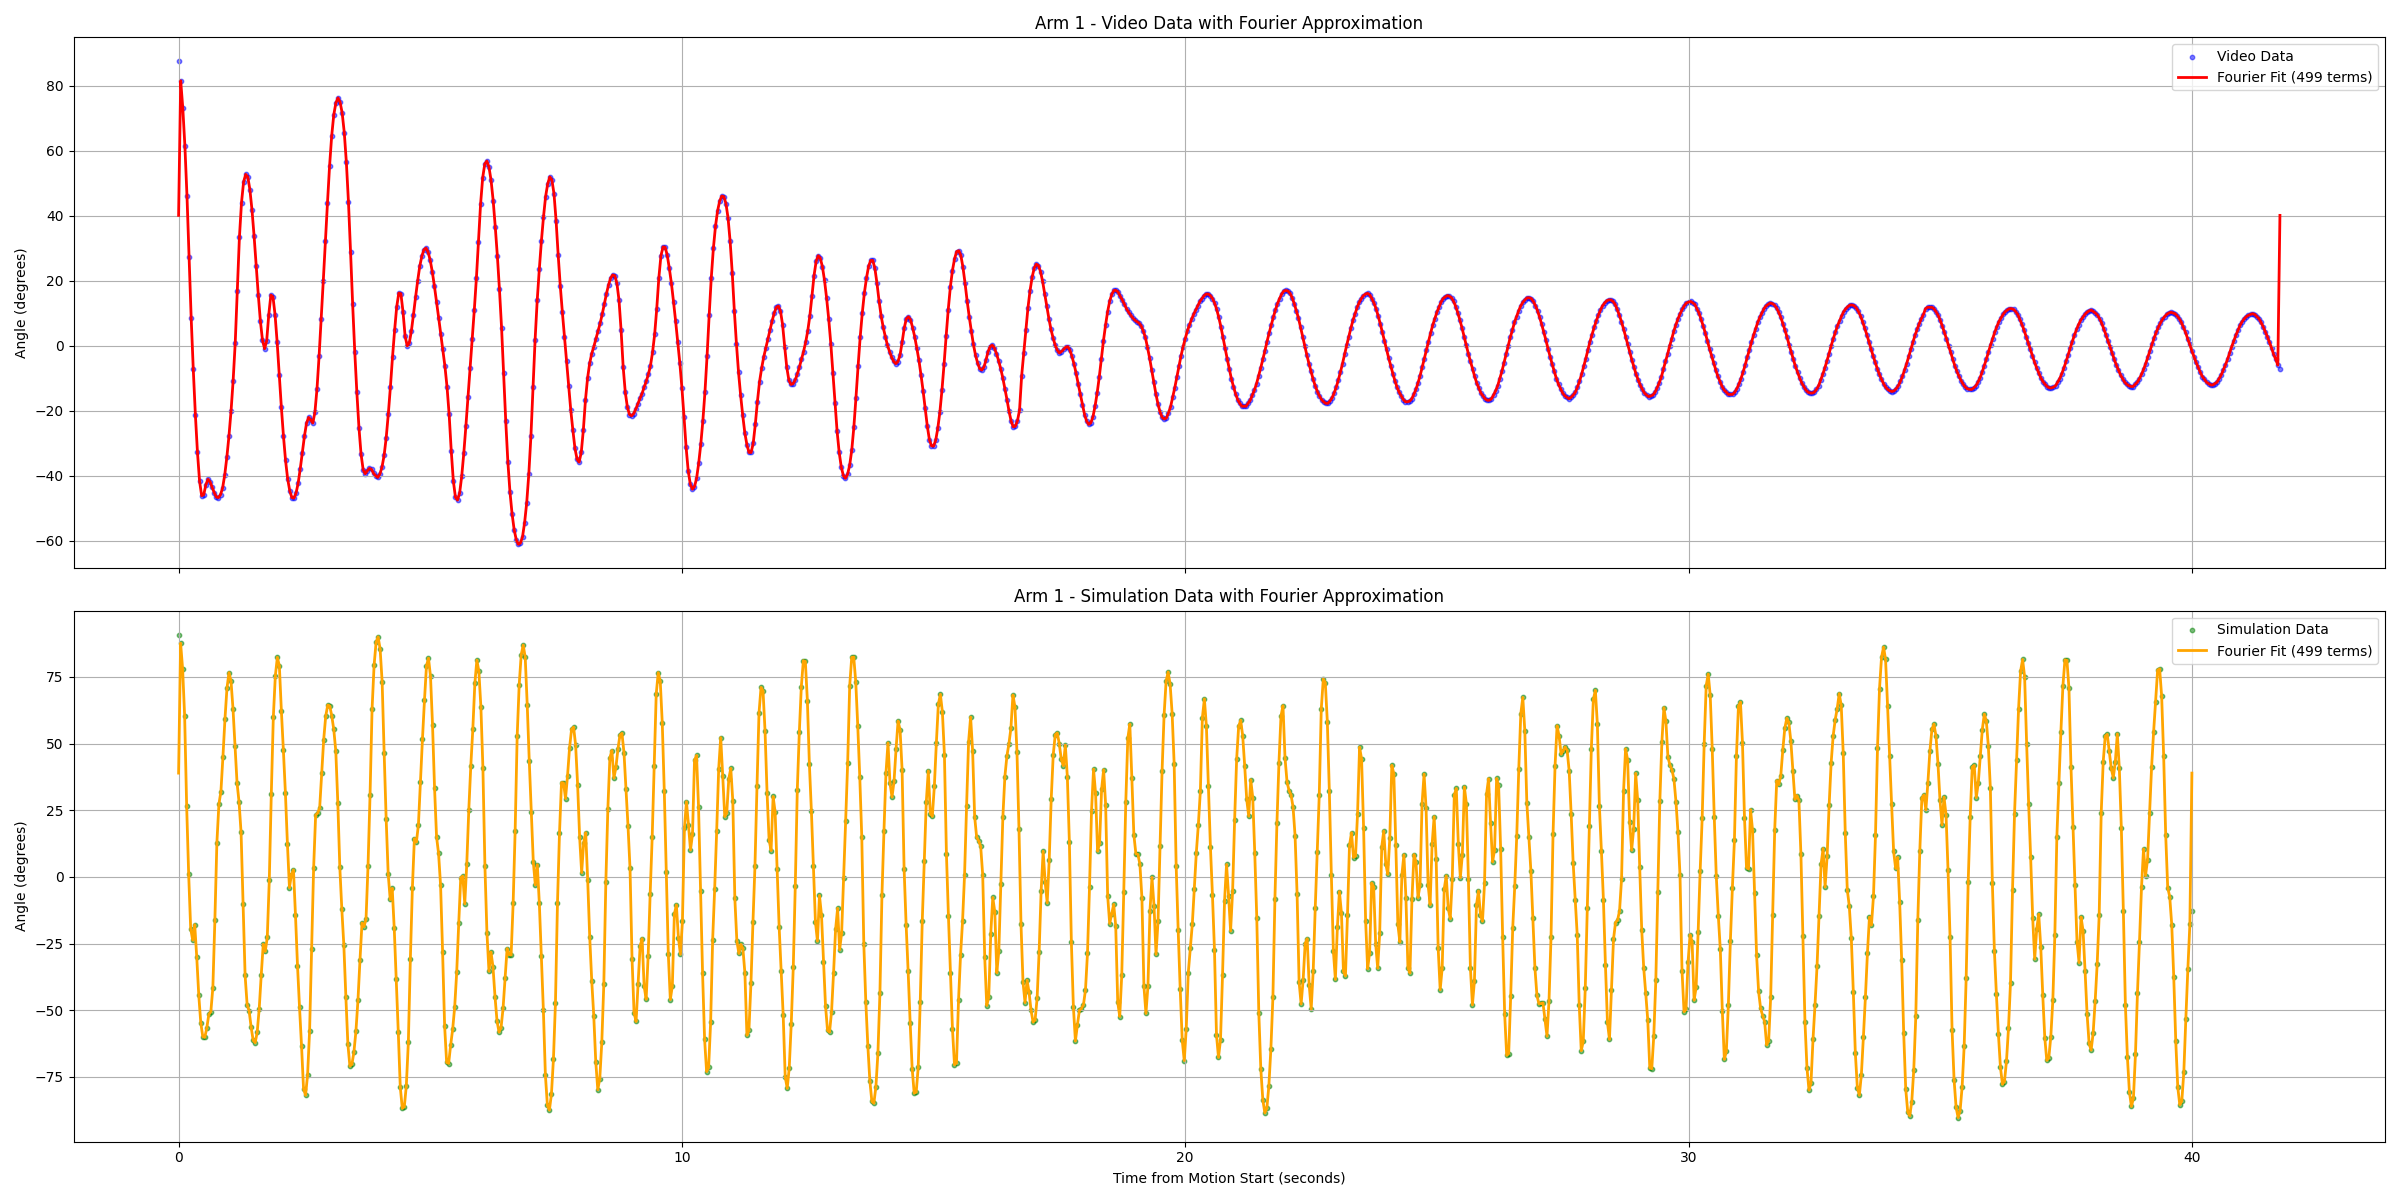
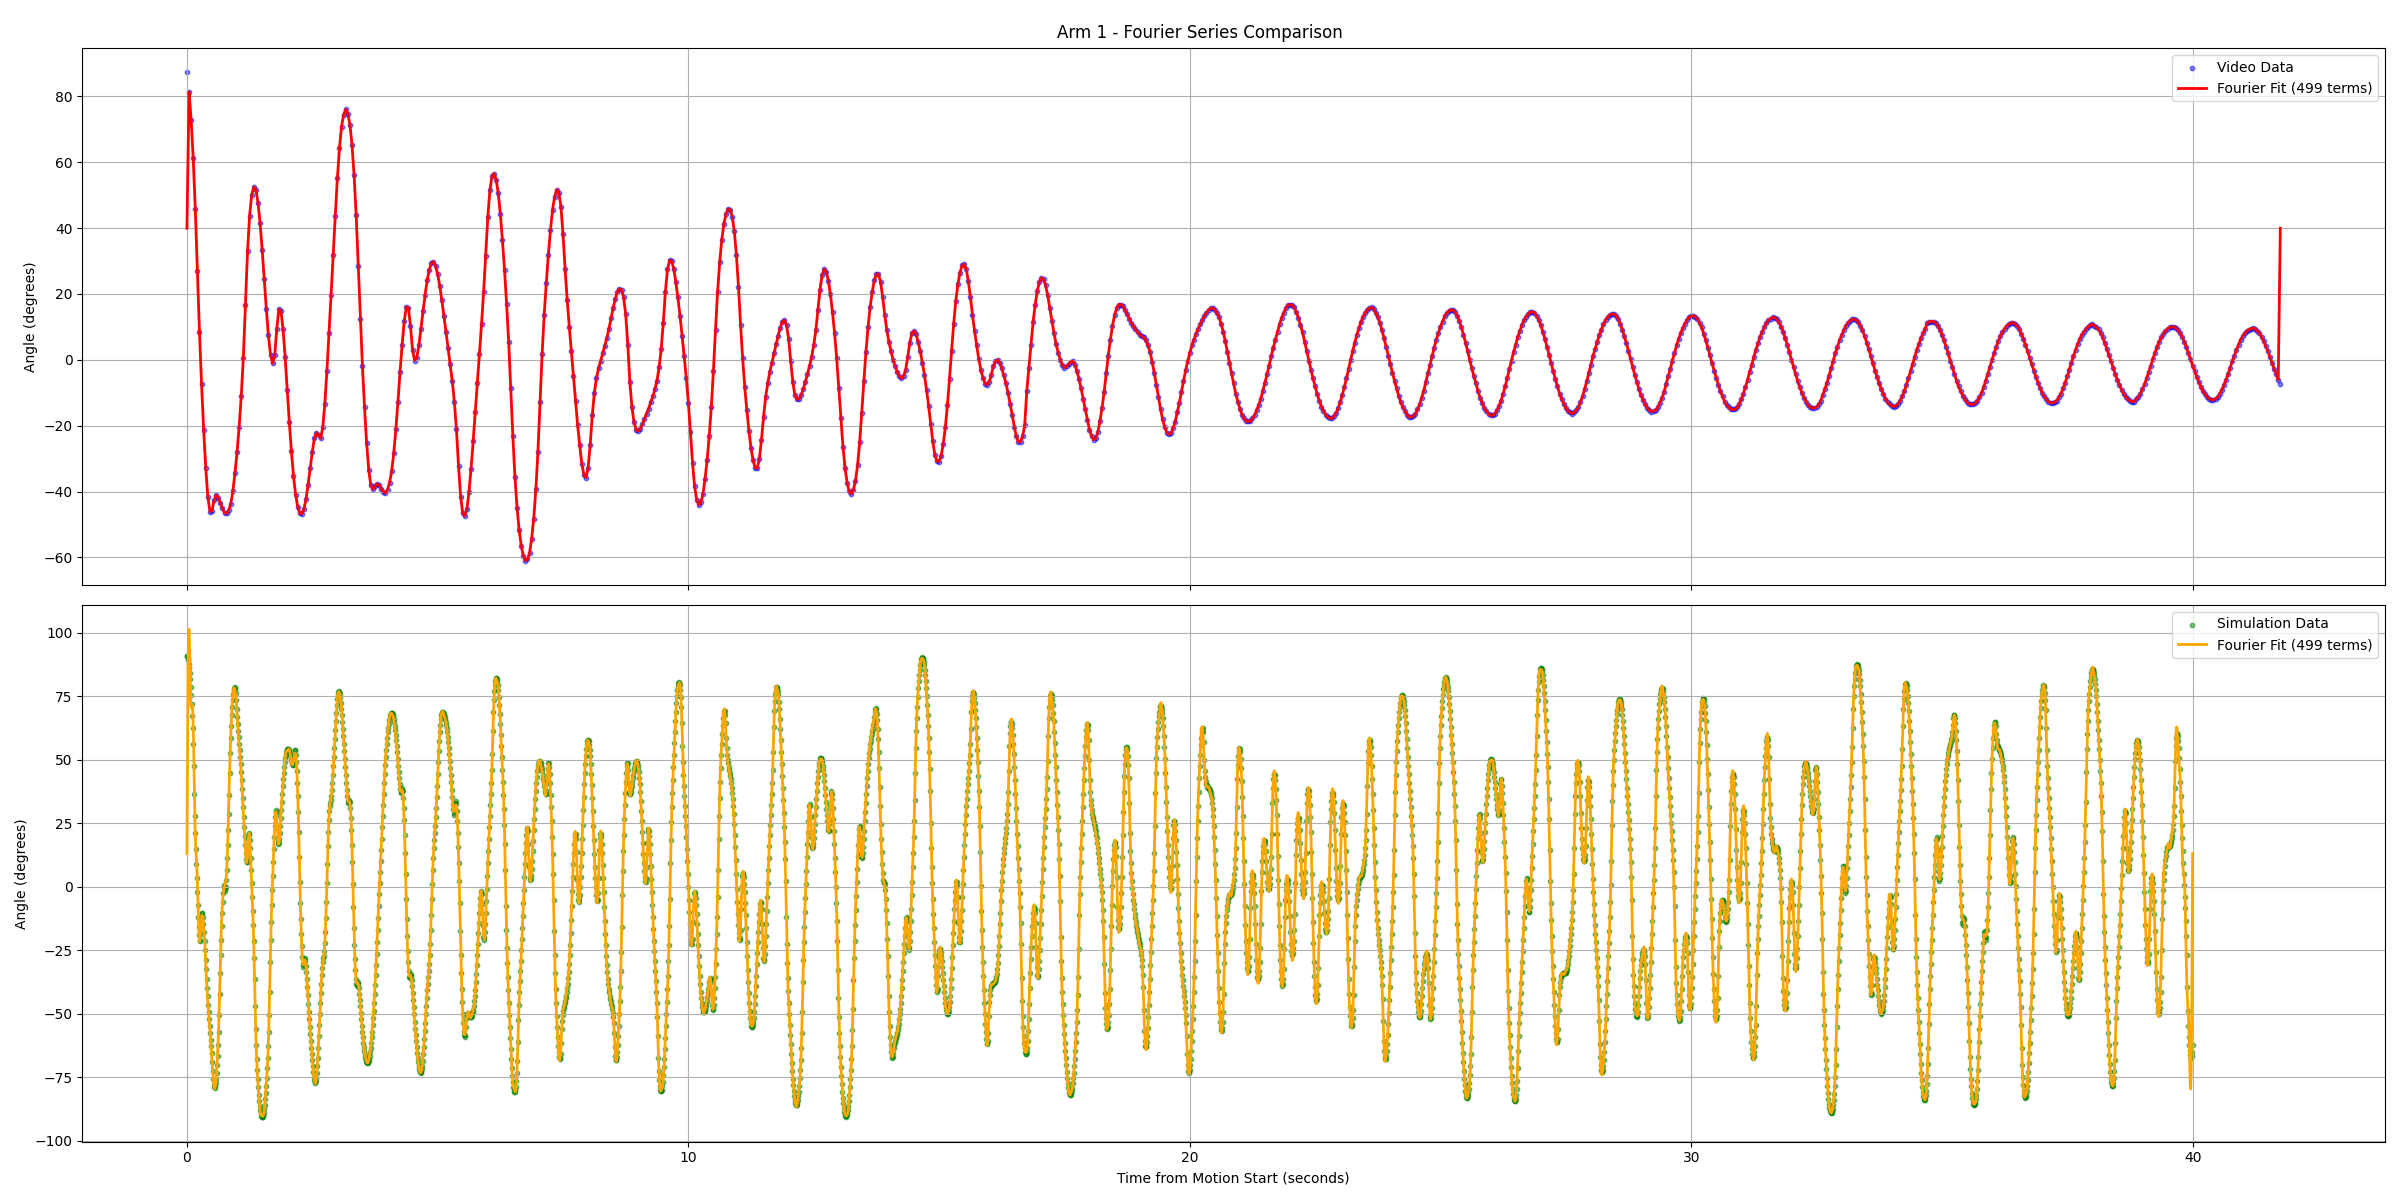
Happy

diff --git a/Verification/verificiation.py b/Verification/verificiation.py
@@ -2,13 +2,14 @@ import matplotlib.pyplot as plt
 import numpy as np
 import math
 import json
-from typing import Tuple, List, NamedTuple
+from pathlib import Path
+from typing import Tuple, List, NamedTuple, Dict, Any
 from scipy.optimize import curve_fit
 
 CONFIG = {
     "title": "Verification of the Simulation with Respect to Real Life",
     "path_to_data": "C:\\Users\\adamf\\Downloads\\",
-    "sim_data_name": "simulation_4fa2850890bf9769841974f080a31e603689af602b49631c0da0913405acc2b2.txt",
+    "sim_data_name": "simulation_45df02e102a7b311c45a387d97d3856f720a1adcfb1d30d1a41ff66d88e170a0.txt",
     "vid_data_name": "DSC_0058.txt",
     "ver_outpath": "./Verification/ver_outfiles/"
 }
@@ -22,15 +23,18 @@ Point = Tuple[int, int]
 LEDData = List[Tuple[float, float, Point]]
 CartesianCoords = Tuple[float, float, float, float]
 
-def get_vid_data_path() -> str:
-    return f"{CONFIG['path_to_data']}{CONFIG['vid_data_name']}"
+def get_vid_data_path() -> Path:
+    """Return the full path to the video data file."""
+    return Path(CONFIG['path_to_data']) / CONFIG['vid_data_name']
 
-def get_data_sim_path() -> str:
-    return f"{CONFIG['path_to_data']}{CONFIG['sim_data_name']}"
+def get_data_sim_path() -> Path:
+    """Return the full path to the simulation data file."""
+    return Path(CONFIG['path_to_data']) / CONFIG['sim_data_name']
 
 def load_saved_vid_data() -> Tuple[Point, LEDData, LEDData]:
+    """Load and parse video data from the configured file."""
+    pivot, first_led, second_led = None, [], []
     with open(get_vid_data_path(), "r") as f:
-        pivot, first_led, second_led = None, [], []
         for line in f:
             key, value = line.split(":", 1)
             if key == "Pivot":
@@ -39,231 +43,172 @@ def load_saved_vid_data() -> Tuple[Point, LEDData, LEDData]:
                 first_led = json.loads(value)
             elif key == "secondLED":
                 second_led = json.loads(value)
-        return pivot, first_led, second_led
+    return pivot, first_led, second_led
 
-def load_saved_data() -> dict:
+def load_saved_data() -> Dict[str, Any]:
+    """Load simulation data from the configured JSON file."""
     with open(get_data_sim_path(), "r") as f:
         data = json.load(f)
-        return {
-            "y": np.array(data["y"]),
-            "t": np.array(data["t"]),
-            "lengths": np.array(data["lengths"])
-        }
-    
-def get_cartesian_coords(theta1: float, theta2: float, lengths: Tuple) -> CartesianCoords:
-    x1 = lengths[0] * np.sin(theta1)
-    y1 = -lengths[0] * np.cos(theta1)
-    x2 = x1 + lengths[1] * np.sin(theta2)
-    y2 = y1 - lengths[1] * np.cos(theta2)
+    return {
+        "y": np.array(data["y"]),
+        "t": np.array(data["t"]),
+        "lengths": np.array(data["lengths"])
+    }
+
+def get_cartesian_coords(theta1: np.ndarray, theta2: np.ndarray, lengths: Tuple[float, float]) -> CartesianCoords:
+    """Calculate Cartesian coordinates for both pendulum masses using vectorized operations."""
+    l1, l2 = lengths
+    x1 = l1 * np.sin(theta1)
+    y1 = -l1 * np.cos(theta1)
+    x2 = x1 + l2 * np.sin(theta2)
+    y2 = y1 - l2 * np.cos(theta2)
     return x1, y1, x2, y2
 
-def process_pendulum_data(solution: dict) -> Tuple[List[PendulumData], List[PendulumData]]:
+def process_pendulum_data(solution: Dict[str, Any]) -> Tuple[List[PendulumData], List[PendulumData]]:
+    """Process simulation data to generate pendulum trajectories using vectorized operations."""
     theta1 = solution["y"][0]
     theta2 = solution["y"][1]
     times = solution["t"]
+    lengths = (solution["lengths"][0], solution["lengths"][1])
+
+    x1, y1, x2, y2 = get_cartesian_coords(theta1, theta2, lengths)
     
-    arm1_data = []
-    arm2_data = []
+    # Calculate angles using vectorized operations
+    angle1 = np.arctan2(x1, -y1)
+    dx = x2 - x1
+    dy = y2 - y1
+    angle2 = np.arctan2(dx, -dy)
     
-    # Iterate through each time step's angles
-    for t, th1, th2 in zip(times, theta1, theta2):
-        # Get coordinates for both masses
-        x1, y1, x2, y2 = get_cartesian_coords(th1, th2, (solution["lengths"][0],solution["lengths"][1]))
-        
-        # Arm 1: Angle is relative to the origin (0,0)
-        angle1 = math.atan2(x1, -y1)
-        arm1_data.append(PendulumData(t, angle1, (x1, y1)))
-        
-        # Arm 2: Angle is relative to the end of Arm 1 (x1, y1)
-        dx = x2 - x1  # Horizontal displacement from Arm 1's end
-        dy = y2 - y1  # Vertical displacement from Arm 1's end
-        angle2 = math.atan2(dx, -dy)  # Negative because positive y is downward
-        arm2_data.append(PendulumData(t, angle2, (x2, y2)))
-    
+    # Create pendulum data lists
+    arm1_data = [
+        PendulumData(t, a1, (x, y))
+        for t, a1, x, y in zip(times, angle1, x1, y1)
+    ]
+    arm2_data = [
+        PendulumData(t, a2, (x, y))
+        for t, a2, x, y in zip(times, angle2, x2, y2)
+    ]
     return arm1_data, arm2_data
 
-def plot_deviation(
-    arm1: List[PendulumData], 
-    arm2: List[PendulumData], 
-    data1: LEDData, 
-    data2: LEDData
-) -> None:
-    def process_arm(vid_data: LEDData, sim_data: List[PendulumData]):
-        # Extract video data
-        vid_t = np.array([d[0] for d in vid_data])
-        vid_angles = np.array([math.degrees(d[1]) for d in vid_data])
-        
-        # Detect motion start in video data
-        def find_motion_start(angles: np.ndarray, window_size=5, threshold=1.0):
-            diffs = np.abs(np.diff(angles))
-            moving_avg = np.convolve(diffs, np.ones(window_size)/window_size, mode='valid')
-            start_idx = np.argmax(moving_avg > threshold) + window_size
-            return max(start_idx, 0)
-        
-        start_idx = find_motion_start(vid_angles)
-        vid_t_trimmed = vid_t[start_idx:] - vid_t[start_idx]  # Start time at 0
-        vid_angles_trimmed = vid_angles[start_idx:]
+def find_motion_start(angles: np.ndarray, window_size: int = 5, threshold: float = 1.0) -> int:
+    """Detect the start of motion using moving average of angular differences."""
+    if len(angles) < 2:
+        return 0
+    diffs = np.abs(np.diff(angles))
+    if len(diffs) < window_size:
+        return 0
+    moving_avg = np.convolve(diffs, np.ones(window_size)/window_size, mode='valid')
+    above_threshold = moving_avg > threshold
+    if not np.any(above_threshold):
+        return 0
+    start_idx = np.argmax(above_threshold) + window_size
+    return min(start_idx, len(angles) - 1)
 
-        # Align simulation data
-        sim_t = np.array([d.time for d in sim_data])
-        sim_angles = np.array([math.degrees(d.angle) for d in sim_data])
-        sim_mask = sim_t >= vid_t[start_idx]
-        sim_t_aligned = sim_t[sim_mask] - sim_t[sim_mask][0]
-        sim_angles_aligned = sim_angles[sim_mask]
+def process_arm(vid_data: LEDData, sim_data: List[PendulumData]) -> Tuple[np.ndarray, np.ndarray, np.ndarray, np.ndarray]:
+    """Process and align video/simulation data for a single pendulum arm."""
+    vid_t = np.array([d[0] for d in vid_data])
+    angles_rad = np.array([d[1] for d in vid_data])
+    vid_angles = np.degrees(angles_rad)
+    
+    start_idx = find_motion_start(vid_angles)
+    vid_t_trimmed = vid_t[start_idx:] - vid_t[start_idx]
+    vid_angles_trimmed = vid_angles[start_idx:]
+    max_time = vid_t_trimmed[-1] if len(vid_t_trimmed) > 0 else 0.0
 
-        return (vid_t_trimmed, vid_angles_trimmed, 
-                sim_t_aligned, sim_angles_aligned)
+    sim_t = np.array([d.time for d in sim_data])
+    sim_angles_rad = np.array([d.angle for d in sim_data])
+    sim_angles = np.degrees(sim_angles_rad)
+    sim_mask = sim_t <= max_time
+    return (vid_t_trimmed, vid_angles_trimmed, sim_t[sim_mask], sim_angles[sim_mask])
 
-    # Process both arms
-    (vid_t1, vid_ang1, sim_t1, sim_ang1) = process_arm(data1, arm1)
-    (vid_t2, vid_ang2, sim_t2, sim_ang2) = process_arm(data2, arm2)
+def plot_deviation(arm1: List[PendulumData], arm2: List[PendulumData], 
+                  data1: LEDData, data2: LEDData) -> None:
+    """Plot angle deviation between video and simulation data using Fourier approximations."""
+    vid_t1, vid_ang1, sim_t1, sim_ang1 = process_arm(data1, arm1)
+    vid_t2, vid_ang2, sim_t2, sim_ang2 = process_arm(data2, arm2)
 
-    # Fit Fourier series to all datasets
-    def fit_and_extend(t: np.ndarray, y: np.ndarray, evaluation_t: np.ndarray):
+    def fit_and_extend(t: np.ndarray, y: np.ndarray, evaluation_t: np.ndarray) -> np.ndarray:
         if len(t) < 2:
             return np.zeros_like(evaluation_t)
-
-        # Get coefficients and period from original data
-        coeffs, fitted_curve = fit_fourier(t, y)
-        T = t[-1] if len(t) > 0 else 1.0  # Handle empty array case
-
-        # Use the original period when evaluating
+        coeffs, _ = fit_fourier(t, y)
+        T = t[-1] if len(t) > 0 else 1.0
         return fourier_series(evaluation_t, T, *coeffs)
 
-    # Create common time axis
-    max_time = min(vid_t1[-1], vid_t2[-1], sim_t1[-1], sim_t2[-1])
-    common_t = np.linspace(0, max_time, 1000)
+    max_time = min(np.max(vid_t1) if len(vid_t1) else 0, np.max(vid_t2) if len(vid_t2) else 0,
+                   np.max(sim_t1) if len(sim_t1) else 0, np.max(sim_t2) if len(sim_t2) else 0)
+    common_t = np.linspace(0, max_time, 1000) if max_time > 0 else np.array([])
 
-    # Get Fourier approximations
     vid_fit1 = fit_and_extend(vid_t1, vid_ang1, common_t)
     sim_fit1 = fit_and_extend(sim_t1, sim_ang1, common_t)
     vid_fit2 = fit_and_extend(vid_t2, vid_ang2, common_t)
     sim_fit2 = fit_and_extend(sim_t2, sim_ang2, common_t)
 
-    # Calculate deviations
-    diff1 = vid_fit1 - sim_fit1
-    diff2 = vid_fit2 - sim_fit2
-
-    # Create plot
     plt.figure(figsize=(24, 6))
-    plt.plot(common_t, diff1, label="Arm 1 Deviation", color='b', alpha=0.7)
-    plt.plot(common_t, diff2, label="Arm 2 Deviation", color='r', alpha=0.7)
-    
+    plt.plot(common_t, vid_fit1 - sim_fit1, label="Arm 1 Deviation", color='b', alpha=0.7)
+    plt.plot(common_t, vid_fit2 - sim_fit2, label="Arm 2 Deviation", color='r', alpha=0.7)
     plt.xlabel("Time from Motion Start (seconds)")
     plt.ylabel("Angle Difference (degrees)")
     plt.title(f"{CONFIG['title']} - Fourier-based Deviation")
     plt.legend()
     plt.grid(True)
-    
     plt.savefig(f"{CONFIG['ver_outpath']}Fourier_Deviation_{CONFIG['title']}.png")
     plt.show()
 
 def fourier_series(t: np.ndarray, T: float, *coefficients) -> np.ndarray:
-    """
-    Create a Fourier series approximation with period T and coefficients.
-    Format: coefficients = [a0, a1, b1, a2, b2, ..., an, bn]
-    """
-    if T <= 0:
-        T = 1.0  # Prevent division by zero
-    
+    """Evaluate Fourier series with given coefficients and period T at times t."""
+    T = max(T, 1e-6)  # Prevent division by zero
+    result = coefficients[0] * np.ones_like(t) if coefficients else np.zeros_like(t)
     n_terms = len(coefficients) // 2
-    result = coefficients[0] * np.ones_like(t)
-    
-    for n in range(1, n_terms+1):
-        a = coefficients[2*n-1] if 2*n-1 < len(coefficients) else 0
-        b = coefficients[2*n] if 2*n < len(coefficients) else 0
-        result += a * np.cos(2*n*np.pi*t/T) + b * np.sin(2*n*np.pi*t/T)
-    
+    for n in range(1, n_terms + 1):
+        a = coefficients[2*n-1] if (2*n-1) < len(coefficients) else 0.0
+        b = coefficients[2*n] if 2*n < len(coefficients) else 0.0
+        result += a * np.cos(2 * n * np.pi * t / T) + b * np.sin(2 * n * np.pi * t / T)
     return result
 
 def fit_fourier(t: np.ndarray, y: np.ndarray, num_terms: int = 10) -> Tuple[np.ndarray, np.ndarray]:
-    """Return (coefficients, fitted_curve)"""
-    # Calculate period from input data
+    """Fit Fourier series to data and return coefficients and fitted values."""
     T = t[-1] if len(t) > 0 else 1.0
-    
-    # Initial guess for coefficients (a0, a1, b1, a2, b2, ...)
-    initial_guess = [np.mean(y)] + [0.0]*(2*num_terms)
-    
-    # Set bounds to avoid runaway values
-    bounds = ([-np.inf] + [-np.inf]*(2*num_terms), 
-              [np.inf] + [np.inf]*(2*num_terms))
-    
-    # Perform the fit with correct period
+    initial_guess = [np.mean(y)] + [0.0] * (2 * num_terms)
     popt, _ = curve_fit(
-        lambda t, *coeffs: fourier_series(t, T, *coeffs),
-        t, y,
-        p0=initial_guess,
-        bounds=bounds,
-        maxfev=10000
+        lambda t_, *coeffs: fourier_series(t_, T, *coeffs),
+        t, y, p0=initial_guess, maxfev=10000
     )
-    
-    # Generate fitted curve with original period
-    fitted_curve = fourier_series(t, T, *popt)
-    return popt, fitted_curve
+    return popt, fourier_series(t, T, *popt)
 
 def plot_fourier_comparison(vid_data: LEDData, sim_data: List[PendulumData], 
-                           arm_num: int, num_terms: int = 499) -> None:
-    # Extract data based on arm number
-    vid_t = np.array([d[0] for d in vid_data])
-    vid_angles = np.array([math.degrees(d[1]) for d in vid_data])
-    sim_t = np.array([d.time for d in sim_data])
-    sim_angles = np.array([math.degrees(d.angle) for d in sim_data])
-
-    # Detect motion start in video data (same as before)
-    def find_motion_start(angles: np.ndarray, window_size=5, threshold=1.0):
-        diffs = np.abs(np.diff(angles))
-        moving_avg = np.convolve(diffs, np.ones(window_size)/window_size, mode='valid')
-        start_idx = np.argmax(moving_avg > threshold) + window_size
-        return max(start_idx, 0)
-
-    start_idx = find_motion_start(vid_angles)
-    vid_t = vid_t[start_idx:] - vid_t[start_idx]
-    vid_angles = vid_angles[start_idx:]
-
-    # Align simulation data with video timing
-    sim_mask = sim_t >= vid_t[0]
-    sim_t_aligned = sim_t[sim_mask] - sim_t[sim_mask][0]
-    sim_angles_aligned = sim_angles[sim_mask]
-
-    # Fit Fourier series to both datasets
-    vid_coeffs, vid_fitted = fit_fourier(vid_t, vid_angles, num_terms)
-    sim_coeffs, sim_fitted = fit_fourier(sim_t_aligned, sim_angles_aligned, num_terms)
+                            arm_num: int, num_terms: int = 499) -> None:
+    """Plot Fourier series comparison between video and simulation data for a single arm."""
+    vid_t, vid_ang, sim_t, sim_ang = process_arm(vid_data, sim_data)
+    vid_coeffs, vid_fit = fit_fourier(vid_t, vid_ang, num_terms)
+    sim_coeffs, sim_fit = fit_fourier(sim_t, sim_ang, num_terms)
 
     fig, (ax1, ax2) = plt.subplots(2, 1, figsize=(24, 12), sharex=True)
-    
-    # Video data plot
-    ax1.scatter(vid_t, vid_angles, s=10, label='Video Data', 
-               color='blue', alpha=0.5)
-    ax1.plot(vid_t, vid_fitted, label=f'Fourier Fit ({num_terms} terms)', 
-            color='red', linewidth=2)
-    ax1.set_title(f"Arm {arm_num} - Video Data with Fourier Approximation")
+    ax1.scatter(vid_t, vid_ang, s=10, color='blue', alpha=0.5, label='Video Data')
+    ax1.plot(vid_t, vid_fit, 'r-', lw=2, label=f'Fourier Fit ({num_terms} terms)')
     ax1.set_ylabel("Angle (degrees)")
     ax1.legend()
     ax1.grid(True)
     
-    # Simulation data plot
-    ax2.scatter(sim_t_aligned, sim_angles_aligned, s=10, 
-               label='Simulation Data', color='green', alpha=0.5)
-    ax2.plot(sim_t_aligned, sim_fitted, label=f'Fourier Fit ({num_terms} terms)', 
-            color='orange', linewidth=2)
-    ax2.set_title(f"Arm {arm_num} - Simulation Data with Fourier Approximation")
+    ax2.scatter(sim_t, sim_ang, s=10, color='green', alpha=0.5, label='Simulation Data')
+    ax2.plot(sim_t, sim_fit, 'orange', lw=2, label=f'Fourier Fit ({num_terms} terms)')
     ax2.set_xlabel("Time from Motion Start (seconds)")
     ax2.set_ylabel("Angle (degrees)")
     ax2.legend()
     ax2.grid(True)
     
+    plt.suptitle(f"Arm {arm_num} - Fourier Series Comparison")
     plt.tight_layout()
     plt.savefig(f"{CONFIG['ver_outpath']}Fourier_Comparison_Arm{arm_num}.png")
     plt.show()
 
 def main():
-    sim = load_saved_data()
-    arm1, arm2 = process_pendulum_data(sim)
-    pivot, first, second = load_saved_vid_data()
+    sim_data = load_saved_data()
+    arm1, arm2 = process_pendulum_data(sim_data)
+    pivot, first_led, second_led = load_saved_vid_data()
 
-    plot_fourier_comparison(first, arm1, arm_num=1)
-    plot_fourier_comparison(second, arm2, arm_num=2)
-    plot_deviation(arm1, arm2, first, second)
+    plot_fourier_comparison(first_led, arm1, arm_num=1)
+    plot_fourier_comparison(second_led, arm2, arm_num=2)
+    plot_deviation(arm1, arm2, first_led, second_led)
 
 if __name__ == "__main__":
     main()

diff --git a/VideoProcessing/VideoProcessing.py b/VideoProcessing/VideoProcessing.py
@@ -7,8 +7,8 @@ import numpy as np
 from typing import Tuple, List, Optional
 
 CONFIG = {
-    "video_name": "DSC_0053",
-    "brightness_value": 140,
+    "video_name": "DSC_0058",
+    "brightness_value": 245,
     "graph_title": "Physical Pendulum",
     "path_to_videos": "C:\\Users\\adamf\\OneDrive\\Desktop\\IPL\\Double Pendulum\\Videos\\",
     "path_to_data": "C:\\Users\\adamf\\Downloads\\",
